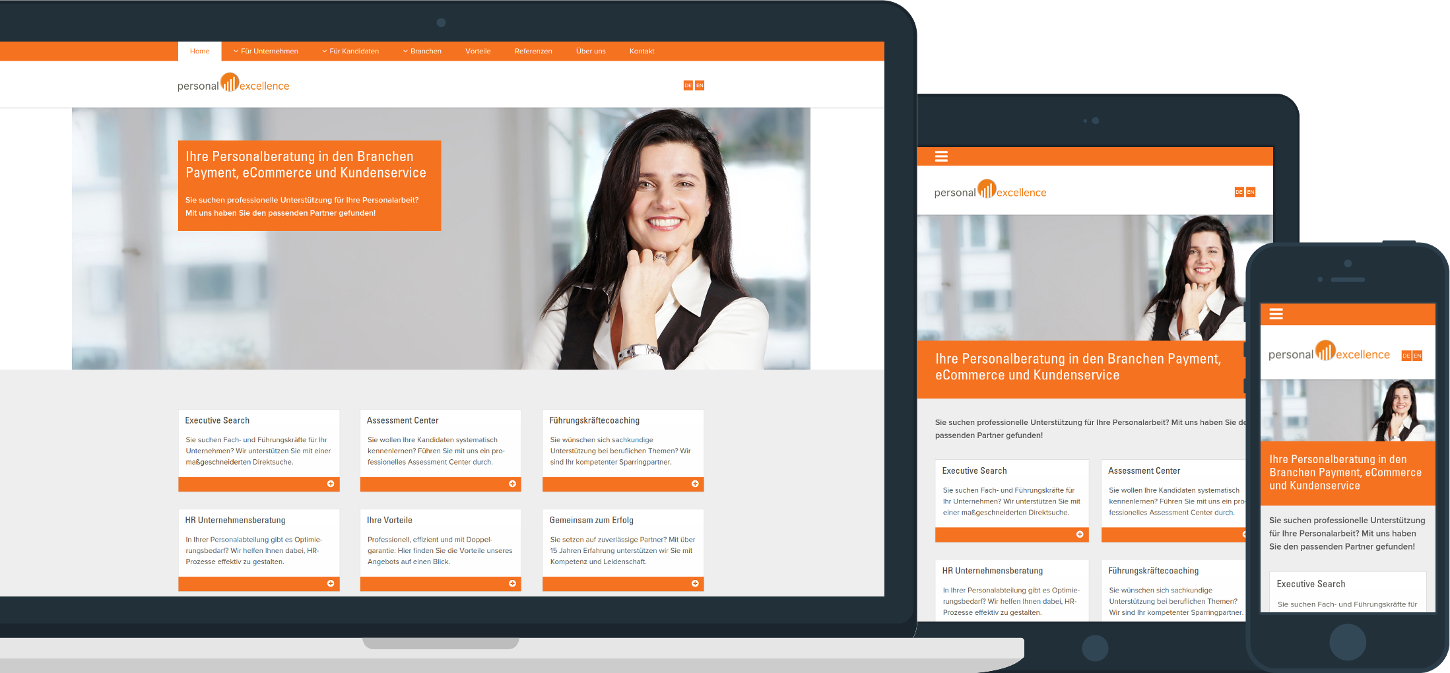
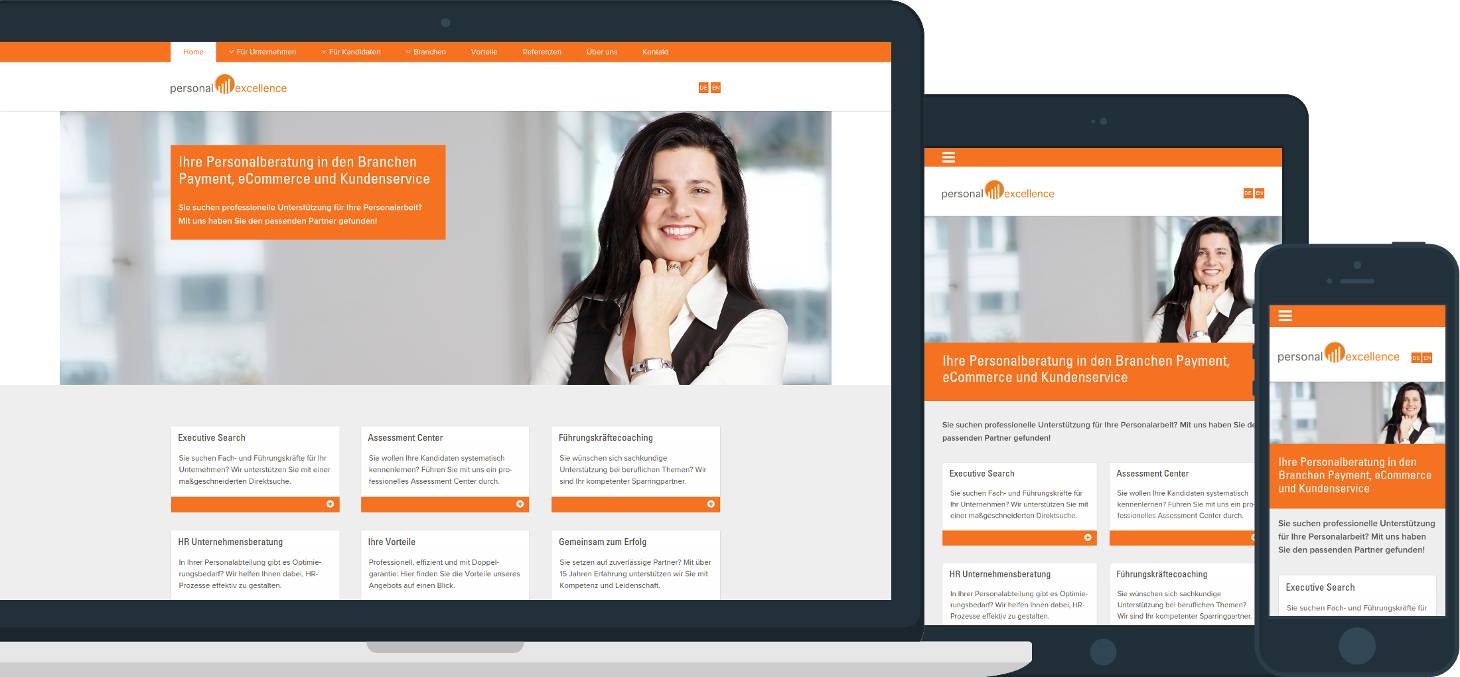
Finish modal images

diff --git a/_sass/1-base/_vars.sass b/_sass/1-base/_vars.sass
@@ -15,7 +15,7 @@ $link-color-hover: $primary
 
 // Typography Vars
 $base-font: 'Neue Haas Unica W01', 'Nimbus Sans L', Helvetica, Arial, sans-serif
-$heading-font: 'Neue Haas Unica W01', Impact
+$heading-font: $base-font
 $base-font-size: 1em
 $base-line-height: 1.5
 

diff --git a/css/main.css b/css/main.css
@@ -346,7 +346,7 @@ img {
   height: auto; }
 
 h1, h2, h3, h4, h5, h6 {
-  font-family: 'Neue Haas Unica W01', Impact;
+  font-family: 'Neue Haas Unica W01', 'Nimbus Sans L', Helvetica, Arial, sans-serif;
   text-align: center;
   font-weight: 300; }
 
